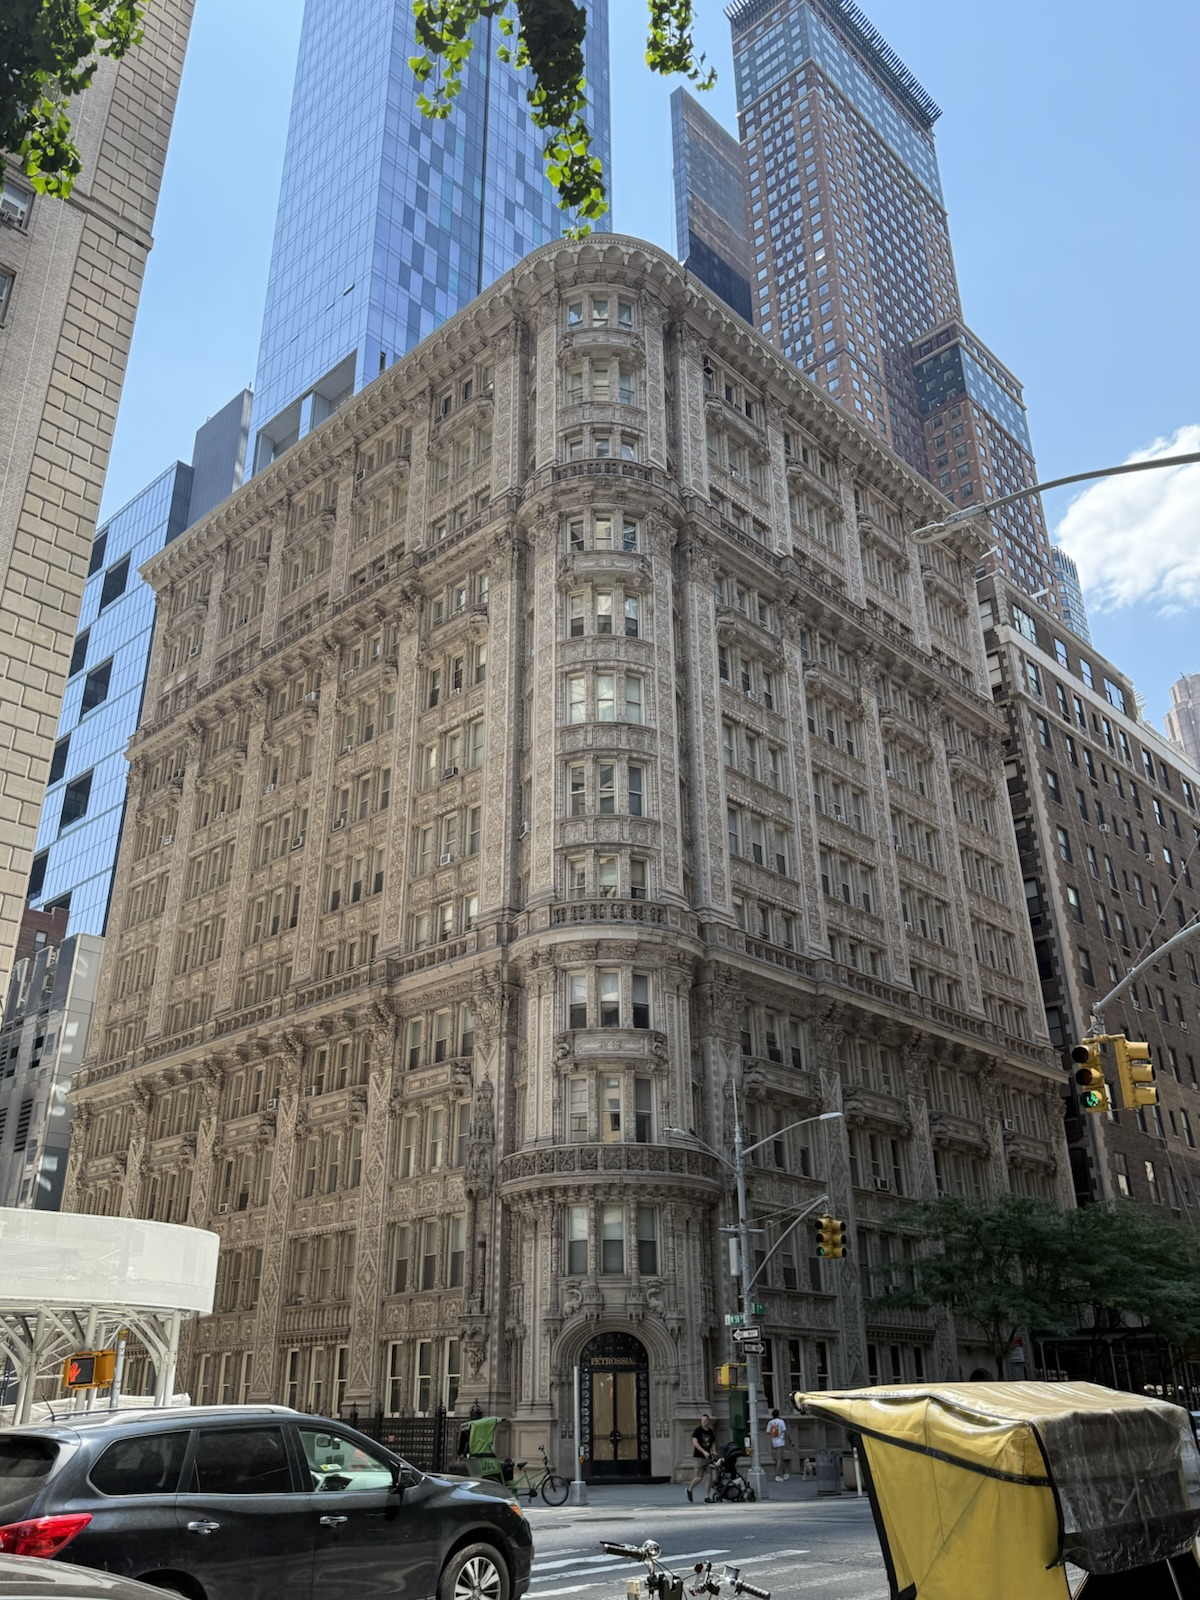
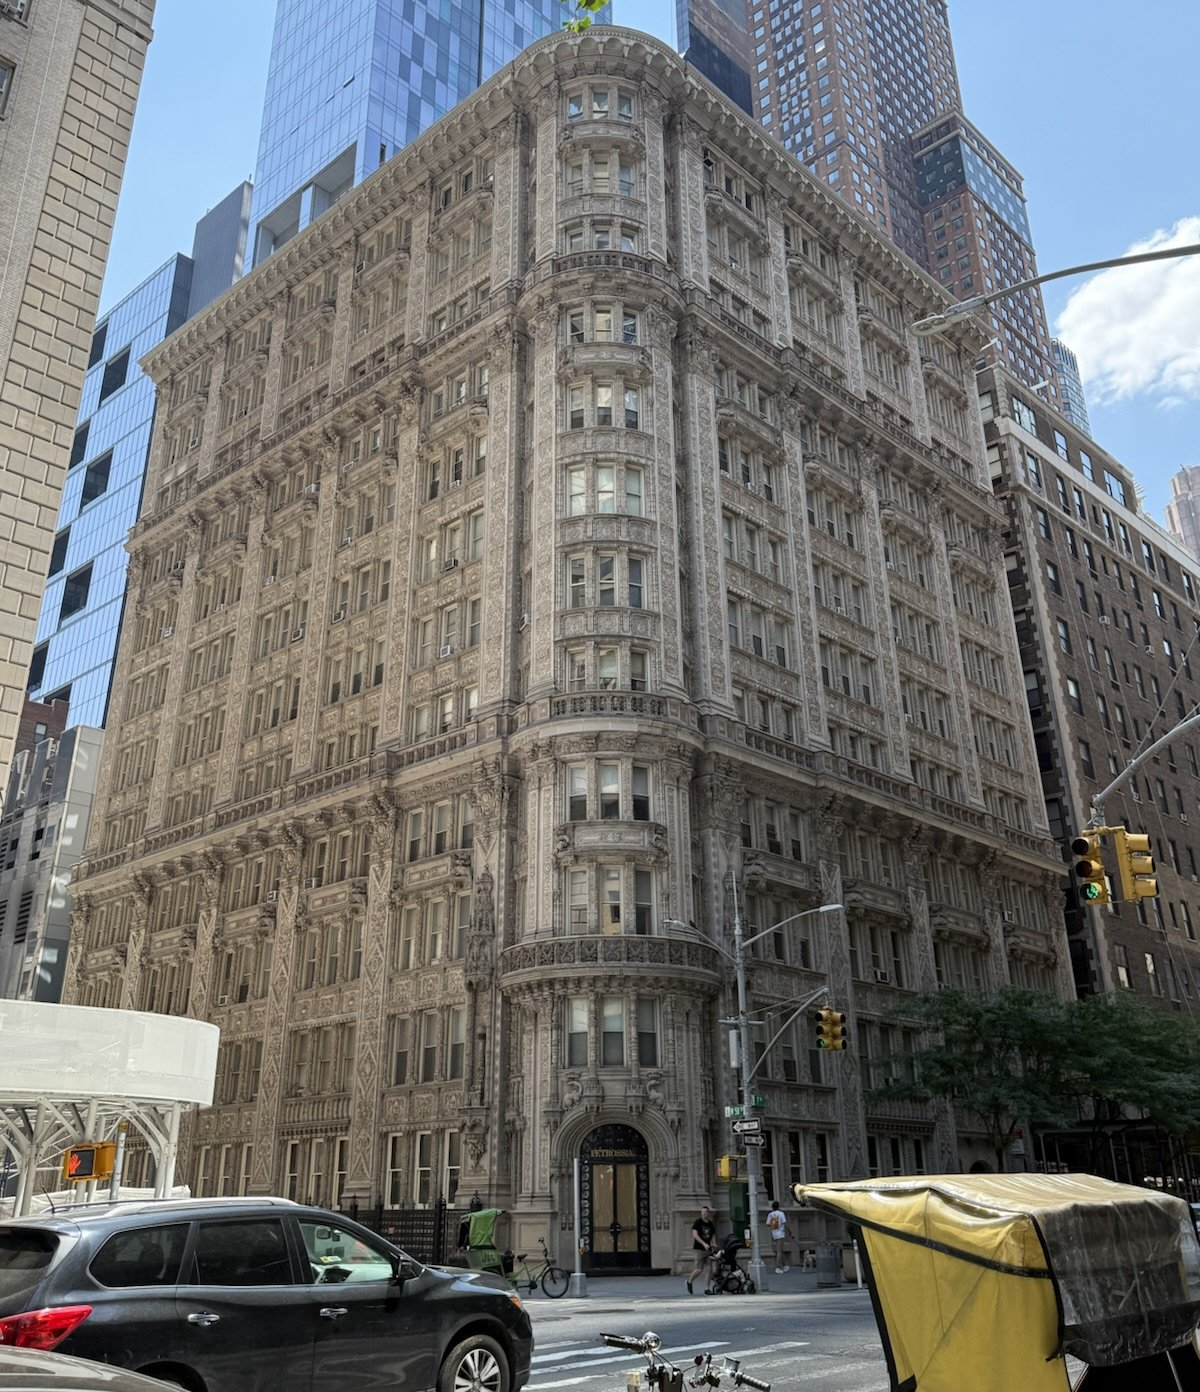
M+ rehecho (torre gris azulada casi del ancho del basamento) y Alwyn Court con la foto entera de tapa

diff --git a/herramientas/prueba/comparar.js b/herramientas/prueba/comparar.js
@@ -42,6 +42,7 @@ const CON_FOTO = [
   ['mundo', '1990', ['bilbao guggenhiem/guggen.jpg']],
   ['mundo', '2000', ['St mary axe/790423.jpg']],
   ['mundo', '2010', ['CCTV/china.png']],
+  ['mundo', '2020', ['m+/av_imagen.webp', 'm+/av_imagen_vertical.webp']],
 ];
 // ?solo=mundo-1950 muestra solo ese símbolo (sin la pantalla de carga).
 const solo = new URLSearchParams(location.search).get('solo');

diff --git a/www/sw.js b/www/sw.js
@@ -2,7 +2,7 @@
 // IMPORTANTE: cuando cambies archivos de la app (HTML, CSS, JS), subí VERSION
 // para que los teléfonos descarguen la versión nueva.
 
-const VERSION = 'v41';
+const VERSION = 'v42';
 const CACHE_APP = `medianeras-app-${VERSION}`;
 const CACHE_DATOS = 'medianeras-datos';
 const CACHE_FOTOS = 'medianeras-fotos';
